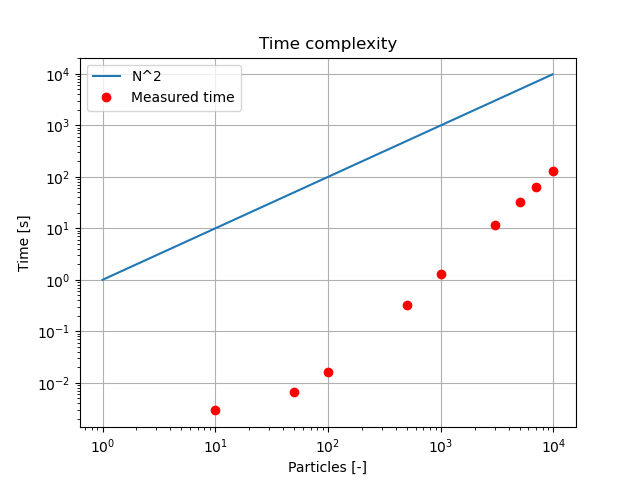
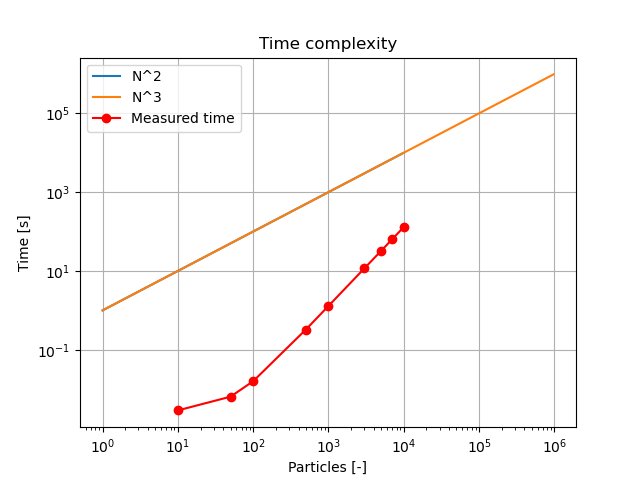
A3, plotted more

diff --git a/A3/plotting.py b/A3/plotting.py
@@ -2,12 +2,14 @@ import matplotlib.pyplot as plt
 import math
 N = [10, 50, 100, 500, 1000, 3000, 5000, 7000, 10000]
 N_2 = [e**2 for e in range(1, 100)]
+N_3 = [e**3 for e in range(1, 100)]
 time = [0.002901, 0.006463, 0.015964, 0.325657, 1.295745, 11.684230, 32.431196, 63.577339, 130.429485]
 
 
 plt.loglog(N_2, N_2)
-plt.loglog(N, time, "ro")
-plt.legend(["N^2", "Measured time"])
+plt.loglog(N_3,N_3)
+plt.loglog(N, time, "ro-")
+plt.legend(["N^2", "N^3", "Measured time"])
 plt.title("Time complexity")
 plt.xlabel("Particles [-]")
 plt.ylabel("Time [s]")
